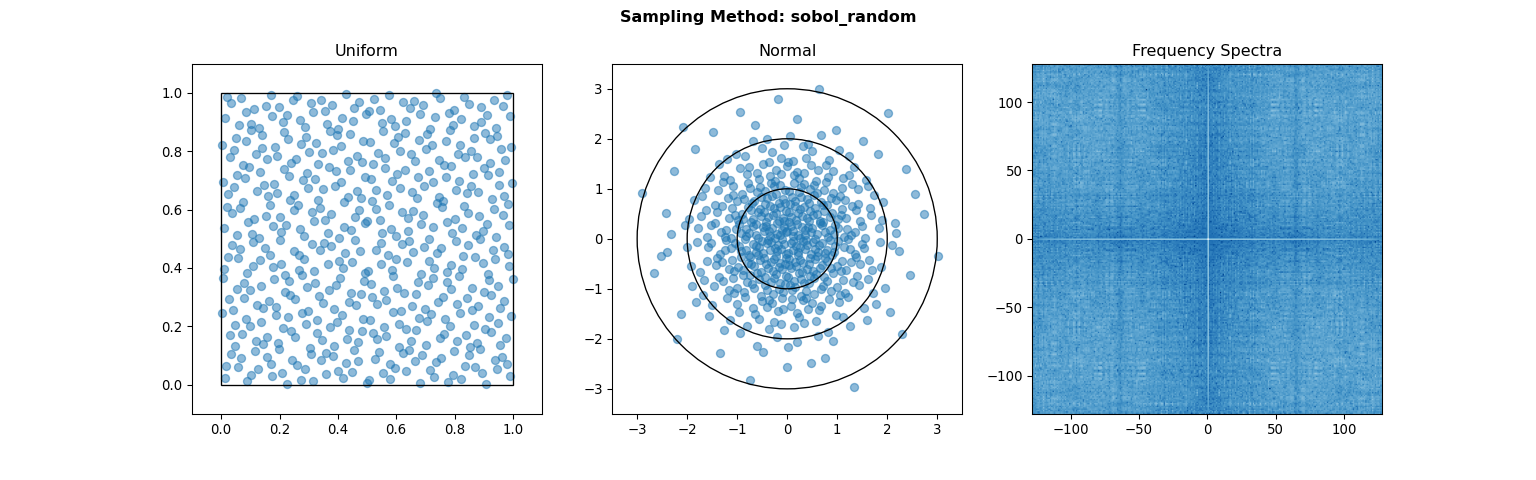
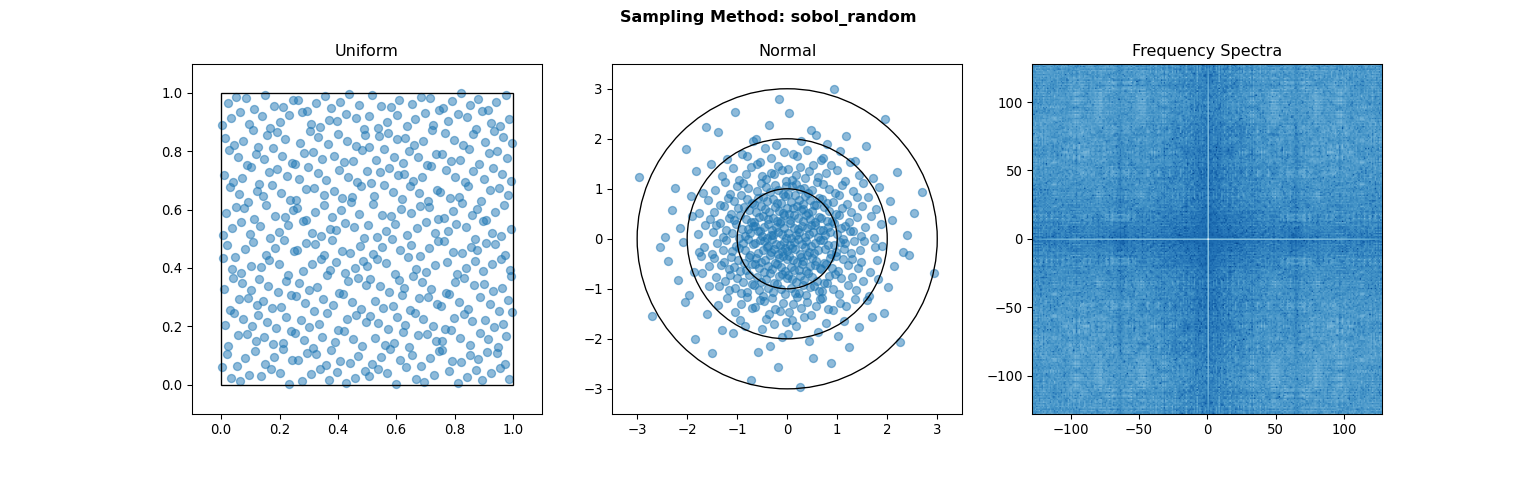
Sampling method cleanup, error handling, and documentation

diff --git a/Monaco/MCVar.py b/Monaco/MCVar.py
@@ -76,7 +76,7 @@ class MCInVar(MCVar):
                  dist           : Union[rv_discrete, rv_continuous], 
                  distkwargs     : dict                        = dict(),
                  nummap         : Union[None, dict[int, Any]] = None,
-                 samplemethod   : str                         = 'random',
+                 samplemethod   : str                         = 'sobol_random',
                  ninvar         : int                         = None,
                  seed           : int                         = np.random.get_state()[1][0], 
                  firstcaseisnom : bool                        = True,
@@ -128,8 +128,6 @@ class MCInVar(MCVar):
     def draw(self, 
              ninvar_max : int = None,
              ):
-        if ninvar_max is None:
-            ninvar_max = self.ninvar
         self.pcts = []
         self.nums = []
         dist = self.dist(**self.distkwargs)
@@ -144,6 +142,11 @@ class MCInVar(MCVar):
         self.pcts.extend(pcts)
         self.nums.extend(dist.ppf(pcts).tolist())
         
+        if any(np.isinf(num) for num in self.nums):
+            print(f'Warning: Infinite value drawn. Check distribution and parameters: {self.dist=}, {self.distkwargs=}')
+            if self.samplemethod == 'sobol':    
+                print(f"Warning: Infinite value draw may happen with {self.dist=} for the first point of the 'sobol' sampling method. Consider using 'sobol_random' instead.")
+
         if any(np.isnan(num) for num in self.nums):
             raise ValueError(f'Invalid draw. Check distribution and parameters: {self.dist=}, {self.distkwargs=}')
 
@@ -286,19 +289,19 @@ if __name__ == '__main__':
     
     mcinvars = dict()
     mcinvars['randint'] = MCInVar('randint', ndraws=1000, dist=randint, distkwargs={'low':1, 'high':5}, seed=invarseeds[0], samplemethod='random')
-    print(mcinvars['randint'].stats()) # expected: DescribeResult(nobs=1001, minmax=(1.0, 4.0), mean=2.5394605394605394, variance=1.2766913086913088, skewness=-0.056403119793934316, kurtosis=-1.382700726059828)
-    mcinvars['norm'] = MCInVar('norm', ndraws=1000, dist=norm, distkwargs={'loc':10, 'scale':4}, seed=invarseeds[1], samplemethod='sobol', ninvar=1)
-    print(mcinvars['norm'].stats()) # expected: DescribeResult(nobs=1001, minmax=(-2.3890763127951384, 23.188773382767856), mean=10.020645996325538, variance=15.961392314718784, skewness=0.022881602038503188, kurtosis=-0.030661167563347913)
+    print(mcinvars['randint'].stats()) # expected: DescribeResult(nobs=1001, minmax=(1.0, 4.0), mean=2.5374625374625372, variance=1.218845154845155, skewness=-0.04361558166066395, kurtosis=-1.3248511805059544)
+    mcinvars['norm'] = MCInVar('norm', ndraws=1000, dist=norm, distkwargs={'loc':10, 'scale':4}, seed=invarseeds[1], samplemethod='sobol', ninvar=1) # Expected: Warning
+    print(mcinvars['norm'].stats()) # expected: DescribeResult(nobs=1001, minmax=(-inf, 22.38907631279514), mean=-inf, variance=nan, skewness=nan, kurtosis=nan)
     mcinvars['norm'].addVarStat(stattype='orderstatTI', statkwargs={'p':0.75, 'c':0.95, 'bound':'2-sided'})
-    print(mcinvars['norm'].mcvarstats[0].vals) # expected: [ 5.19332804 14.85744951]
+    print(mcinvars['norm'].mcvarstats[0].vals) # expected: [ 5.16295507 14.83704493]
     xk = np.array([1, 5, 6])
     pk = np.ones(len(xk))/len(xk)
     custom = rv_discrete(name='custom', values=(xk, pk))
-    mcinvars['custom'] = MCInVar('custom', ndraws=1000, dist=custom, distkwargs=dict(), seed=invarseeds[2])
+    mcinvars['custom'] = MCInVar('custom', ndraws=1000, dist=custom, distkwargs=dict(), ninvar=1, samplemethod='random', seed=invarseeds[2])
     print(mcinvars['custom'].stats()) # expected: DescribeResult(nobs=1001, minmax=(1.0, 6.0), mean=4.105894105894106, variance=4.444775224775225, skewness=-0.7129149182621393, kurtosis=-1.3236396700106972)
     print(mcinvars['custom'].vals[1:10]) # expected: [5, 1, 1, 6, 6, 5, 5, 5, 5]
     print(mcinvars['custom'].getVal(0).val) # expected: 5.0
-    mcinvars['map'] = MCInVar('map', ndraws=10, dist=custom, distkwargs=dict(), nummap={1:'a',5:'e',6:'f'}, seed=invarseeds[3])
+    mcinvars['map'] = MCInVar('map', ndraws=10, dist=custom, distkwargs=dict(), ninvar=1, nummap={1:'a',5:'e',6:'f'}, samplemethod='random', seed=invarseeds[3])
     print(mcinvars['map'].vals) # expected: ['e', 'f', 'e', 'f', 'f', 'a', 'e', 'e', 'a', 'e', 'e']
     print(mcinvars['map'].stats()) # expected: DescribeResult(nobs=11, minmax=(1.0, 6.0), mean=4.545454545454546, variance=3.2727272727272734, skewness=-1.405456737852613, kurtosis=0.38611111111111107)
     

diff --git a/Monaco/mc_sampling.py b/Monaco/mc_sampling.py
@@ -5,23 +5,23 @@ import numpy as np
 from functools import lru_cache
 
 def mc_sampling(ndraws     : int, 
-                method     : str = 'random', 
+                method     : str = 'sobol_random', 
                 ninvar     : int = None,
                 ninvar_max : int = None,
                 seed       : int = np.random.get_state()[1][0],
                 ) -> list[float]:
-    
-    if method in ('sobol', 'sobol_random'):
-        if not 1 <= ninvar <= 21201:
-            raise ValueError(f'{ninvar=} must be between 1 and 21201 for the {method} method')
+    if ninvar_max is None:
+        ninvar_max = ninvar
 
     if method == 'random':
         pcts = scipy.stats.uniform.rvs(size=ndraws, random_state=seed)
     
     elif method in ('sobol', 'sobol_random', 'halton', 'halton_random', 'latin_hypercube'):
-        if (ninvar is None) or (ninvar_max is None):
-            raise ValueError(f'{ninvar=} and {ninvar_max=} must defined for the {method} method')           
-            
+        if ninvar is None:
+            raise ValueError(f'{ninvar=} must defined for the {method} method')           
+        elif (not 1 <= ninvar <= 21201) and method in ('sobol', 'sobol_random'):
+            raise ValueError(f'{ninvar=} must be between 1 and 21201 for the {method} method')
+        
         scramble = False
         if method in ('sobol_random', 'halton_random'):
             scramble = True
@@ -43,7 +43,7 @@ def cached_pcts(ndraws     : int,
                 ninvar_max : int,
                 scramble   : bool, 
                 seed       : int,
-                ):
+                ) -> np.ndarray:
     if method in ('sobol', 'sobol_random'):
         sampler = scipy.stats.qmc.Sobol(d=ninvar_max, scramble=scramble, seed=seed)
     elif method in ('halton', 'halton_random'):
@@ -65,15 +65,14 @@ if __name__ == '__main__':
     def plot_sampling_test(ndraws, method, seeds):
         import matplotlib.pyplot as plt
         
-        pcts = np.array([mc_sampling(ndraws=ndraws, method=method, ninvar_max=2, ninvar=1, seed=seeds[0]), 
-                         mc_sampling(ndraws=ndraws, method=method, ninvar_max=2, ninvar=2, seed=seeds[1])])
+        pcts = np.array([mc_sampling(ndraws=ndraws, method=method, ninvar=1, ninvar_max=2, seed=seeds[0]), 
+                         mc_sampling(ndraws=ndraws, method=method, ninvar=2, ninvar_max=2, seed=seeds[1])])
         
         fig, axs = plt.subplots(1, 3)
         fig.suptitle(f'Sampling Method: {method}', fontweight='bold')
         fig.set_dpi(96)
         fig.set_size_inches(16, 5)
 
-        
         axs[0].set_title('Uniform')
         axs[0].scatter(pcts[0], pcts[1], alpha=0.5)
         square = plt.Rectangle((0,0), 1, 1, color='k', fill=False)
@@ -97,15 +96,15 @@ if __name__ == '__main__':
         axs[2].set_title('Frequency Spectra')
         ndraws_freq = 1000000
         n_freq_grid = 2**8
-        pcts_freq = np.array([mc_sampling(ndraws=ndraws_freq, method=method, ninvar=1, seed=seeds[0]), 
-                              mc_sampling(ndraws=ndraws_freq, method=method, ninvar=2, seed=seeds[1])])
+        pcts_freq = np.array([mc_sampling(ndraws=ndraws_freq, method=method, ninvar=1, ninvar_max=2, seed=seeds[0]), 
+                              mc_sampling(ndraws=ndraws_freq, method=method, ninvar=2, ninvar_max=2, seed=seeds[1])])
         pcts_freq_int = np.round(pcts_freq*(n_freq_grid - 1)).astype(int)
         S = np.zeros([n_freq_grid, n_freq_grid])
         for i in range(ndraws_freq):
             S[pcts_freq_int[0,i], pcts_freq_int[1,i]] += 1
         FS = np.fft.fft2(S)
         axs[2].imshow(np.log(np.abs(np.fft.fftshift(FS))**2), cmap='Blues_r', extent=[-n_freq_grid/2,n_freq_grid/2,-n_freq_grid/2,n_freq_grid/2], aspect="equal")
-        
+
         #fig.savefig(f'../docs/{method}_sampling.png')
         
     

diff --git a/Monaco/MCSim.py b/Monaco/MCSim.py
@@ -20,7 +20,7 @@ class MCSim:
                  ndraws         : int, 
                  fcns           : dict[str, Callable], # fcns is a dict with keys 'preprocess', 'run', 'postprocess'
                  firstcaseisnom : bool = True, 
-                 samplemethod   : str  = 'random', # 'random' or 'sobol'
+                 samplemethod   : str  = 'sobol_random',
                  seed           : int  = np.random.get_state()[1][0], 
                  cores          : int  = cpu_count(logical=False), 
                  verbose        : bool = True,
@@ -222,7 +222,7 @@ class MCSim:
         for i, coeff in enumerate(self.corrcoeffs[0]):
             if np.isnan(coeff):
                 vprint(self.verbose, f"Warning: Unable to generate correlation coefficient for '{self.covvarlist[i]}'. " + \
-                                      "This may happen if this variable does not vary.")
+                                      "This may happen if this variable does not vary, or if an infinite value was drawn.")
 
 
     def corr(self):
@@ -523,6 +523,7 @@ class MCSim:
             filepath.unlink()
 
 
+
 '''
 ### Test ###
 if __name__ == '__main__':
@@ -538,6 +539,6 @@ if __name__ == '__main__':
     print(sim.mccases[0].mcinvals['Var1'].val) # expected: 3.0
     print(sim.mcinvars['Var2'].name)           # expected: Var2
     print(sim.mccases[0].mcinvals['Var2'].val) # expected: 10.000000000000002
-    print(sim.corr())                          # expected: (array([[ 1., -0.07512466], [-0.07512466,  1.]]), ['Var1', 'Var2'])
-    print(sim.cov())                           # expected: (array([[ 2.07009901, -0.40962856], [-0.40962856, 14.36230848]]), ['Var1', 'Var2'])
+    print(sim.corr())                          # expected: (array([[ 1., 0.10204185], [0.10204185,  1.]]), ['Var1', 'Var2'])
+    print(sim.cov())                           # expected: (array([[ 1.83366337, 0.57730438], [0.57730438, 17.45554588]]), ['Var1', 'Var2'])
 #'''

diff --git a/docs/sampling_methods.md b/docs/sampling_methods.md
@@ -8,19 +8,28 @@ The way that random samples are drawn for different probability distributions in
 
 For drawing percentiles from the underlying uniform distribution, there are several sampling methods implemented in Monaco. See the [scipy.stats.qmc](https://scipy.github.io/devdocs/reference/stats.qmc.html) documentation for more info. 
 
-The first is **random** sampling, which uses scipy's pseudorandom number generator as seeded by the program.
+The first is ```random``` sampling, which uses scipy's pseudorandom number generator as seeded by the program.
 
-The second is **sobol** sampling. [Sobol's sequence](https://en.wikipedia.org/wiki/Sobol_sequence) is a well performing [quasi-random sequence](https://en.wikipedia.org/wiki/Low-discrepancy_sequence), which is designed to better fill a parameter space without gaps or clusters. Generally, Sobol sampling will lead to smoother and more accurate results, and faster convergence. However, it can also introduce unintended frequency content to the parameter space, as opposed to random's flat white noise spectrum. This is rarely an issue, but something to be aware of in niche applications. Note also several things:
+The second is ```sobol``` sampling. [Sobol's sequence](https://en.wikipedia.org/wiki/Sobol_sequence) is a well performing [quasi-random sequence](https://en.wikipedia.org/wiki/Low-discrepancy_sequence), which is designed to better fill a parameter space without gaps or clusters. Generally, Sobol sampling will lead to smoother and more accurate results, and faster convergence. However, it can also introduce unintended frequency content to the parameter space, as opposed to random's flat white noise spectrum. This is rarely an issue, but something to be aware of in niche applications. Note also several things:
 * Sobol sampling cannot be used for more than 21201 input variables, and may slow way down before that. 
 * Sobol sampling is unaffected by the random seed.
 * If using Sobol sampling for integration, the number of samples should be a power of 2 in order for balance across the parameter space.
+* Basic Sobol sampling can *not* be used for generating normal distributions since the first point always lies at 0, which maps to negative infinity on the gaussian inverse CDF. 
 
-The third is **sobol_random** sampling. This takes the sequence of sobol points and applies Owen's scrambling to improve the frequency sprecta. This no longer has power of 2 integration balance, but does change results depending on the seed.
+The third is ```sobol_random``` sampling, which takes the sequence of Sobol points and applies Owen's scrambling. This has many advantages over the basic sampling method:
+* Banding is reduced and the frequency spectra is improved.
+* Power of 2 integration balance is retained.
+* Results vary slightly when the seed is changed.
+* The point at 0 is scrambled away, so it can be used for generating any probability distribution.
 
-Also implemented is **halton**, **halton_random**, and **latin_hypercube** sampling. However the Halton sequence usually performs worse than the Sobol sequence, and Latin Hypercube sampling gives only a marginal improvement over random, so users generally should not use these.
+The only disadvantage of ```sobol_random``` is that it is slower than ```sobol``` sampling due to the randomization and lack of caching. On my machine, drawing 10^6 points for each of 10 variables takes approximately 1 second for ```sobol_random```, and only 10 milliseconds for ```sobol```.
 
-Random sampling is the default as it is easier to conceptually understand, but most users should use sobol_random sampling for best results.
+Also implemented for completeness is ```halton```, ```halton_random```, and ```latin_hypercube``` sampling. However the Halton sequence usually performs worse than the Sobol sequence, and Latin Hypercube sampling gives only a marginal improvement over random at the cost of being unaffected by seeds, so users generally should not use these.
 
+### Best Practices
+What sampling method should you use? ```sobol_random``` has been shown in literature to generally give the best results with fastest convergence, so it is the default. Make sure to use a power of 2 for the number of draws if performing integration. In the rare case where you are performing integration and are drawing only from uniform distributions, you can fall back to ```sobol``` for a slight speedup.  ```random``` sampling should only be used as a teaching tool or if a flat frequency spectra is critical, and the others should not be used.
+
+### Comparison Plots
 <p float="left" align="center">
 <img width="768" height="240" src="random_sampling.png">  
 </br>

diff --git a/README.md b/README.md
@@ -84,7 +84,6 @@ See the [examples](examples/) folder for some examples you can step through or u
 * Make pip installable?
 * Correlation matrix input?
 * Ability to plot derived data in addition to mcvars?
-* Speed up sampling by not regenerating qmc sequences for each invar 
 
 **Done:**
 * ~~Examples:~~
@@ -117,6 +116,7 @@ See the [examples](examples/) folder for some examples you can step through or u
 * ~~Plot tolerance intervals as shaded regions~~
 * ~~Get keyboard interrupt working~~
 * ~~Sampling schemes (random, sobol, etc)~~
+* ~~Speed up sampling by not regenerating qmc sequences for each invar~~
 
 
 ### License:
